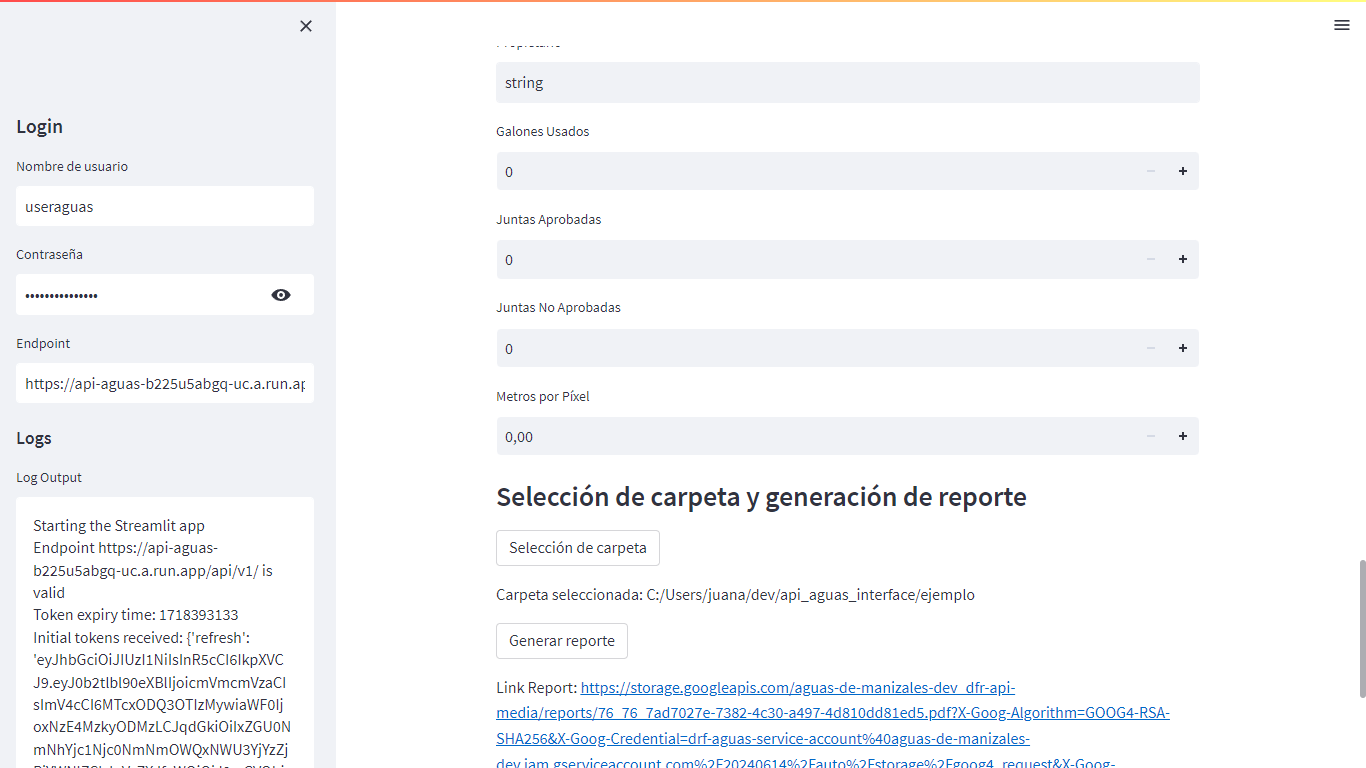
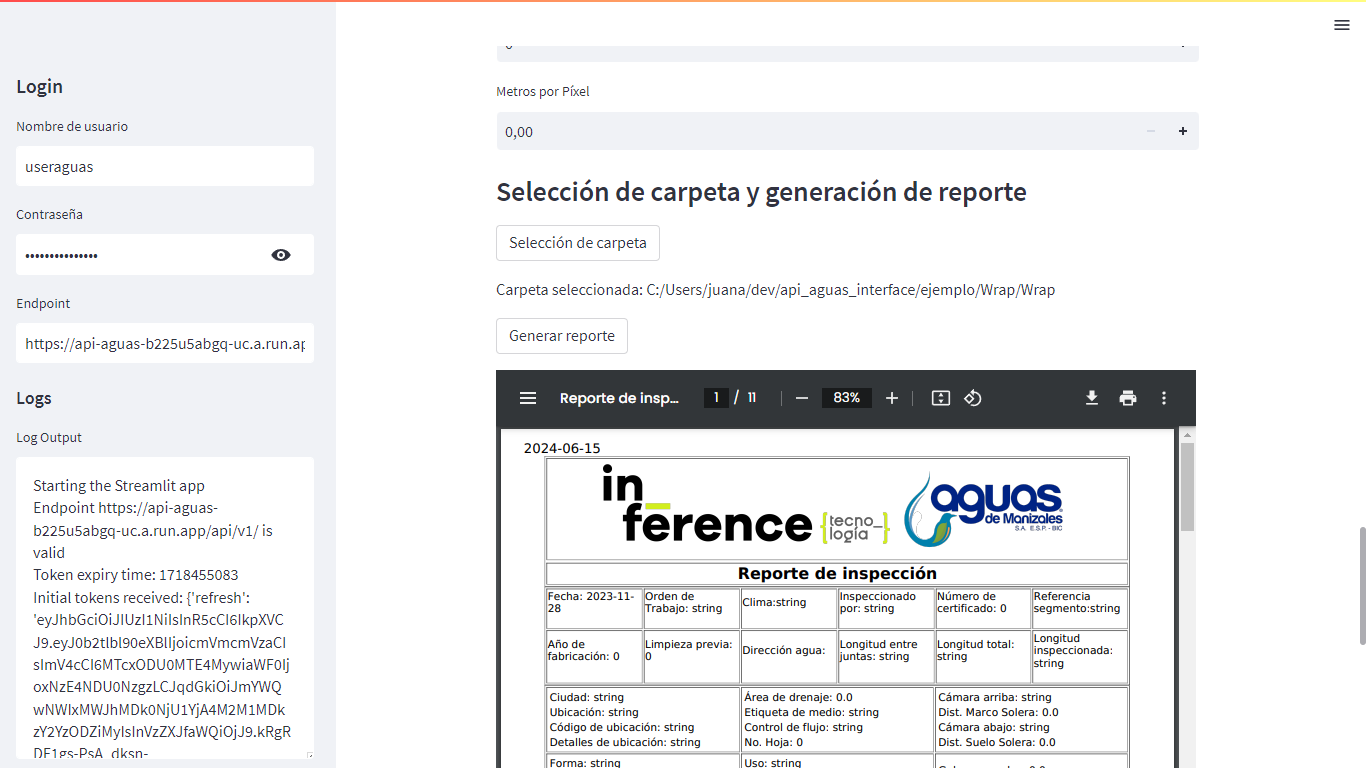
Added pdf viewer

diff --git a/api_aguas_interface/main.py b/api_aguas_interface/main.py
@@ -1,5 +1,5 @@
 import streamlit as st
-import subprocess
+from streamlit_pdf_viewer import pdf_viewer
 import os
 from datetime import datetime
 from pathlib import Path
@@ -189,7 +189,15 @@ def generate_report(endpoint, username, password, inspection_details, folder_pat
         with st.spinner("Descargando reporte..."):
             link = report_generator.download_report()
             logger.info(f"Report downloaded, link: {link}")
-            st.write("Link Report:", link)
+            #st.write("Link Report:", link)
+            # Download button
+            #st.download_button(label="Descargar Reporte PDF",
+            #                 data=link, file_name=f"reporte_inspeccion-{payload['name']}.pdf")
+
+            # Display PDF
+            pdf_display = f'<iframe src="{link}" width="700" height="1000" type="application/pdf"></iframe>'
+            st.markdown(pdf_display, unsafe_allow_html=True)
+
     except Exception as e:
         logger.error(f"Error generating report: {str(e)}")
         st.error(f"Error al generar el reporte: {str(e)}")

diff --git a/api_aguas_interface/backend.py b/api_aguas_interface/backend.py
@@ -1,7 +1,6 @@
 from api_aguas_interface.access_handler import Access
 from api_aguas_interface.utils import get_image, get_image_paths
 import requests
-import wget
 import json 
 
 from urllib.parse import urljoin
@@ -136,7 +135,6 @@ class GenerateReport:
         try:
             data = self._request(f"report/{self.id_report}", method="GET")
             pdf_url = data['pdf_report']
-            wget.download(pdf_url)
             logger.info(f"Report downloaded from URL: {pdf_url}")
             return pdf_url
         except Exception as e:

diff --git a/setup.py b/setup.py
@@ -20,7 +20,6 @@ setup(
     
 
     install_requires=[ 
-                     'wget==3.2',
                      'requests==2.31.0', 
                      'streamlit==1.23.1'
     ],

diff --git a/README.md b/README.md
@@ -16,5 +16,3 @@ After installation, execute the following command in the terminal:
 ```api_aguas_interface```
 
 This command will launch a Streamlit app in your browser. Within the app, you can enter the required information, select the folder where the images are located, and generate the report.
-
-Once the process is complete, a link to download the report will be provided. Additionally, the report will be saved in the location where you executed the initial command.
